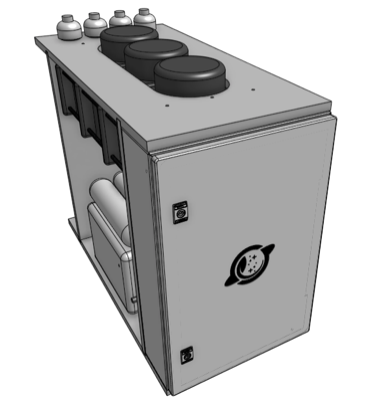
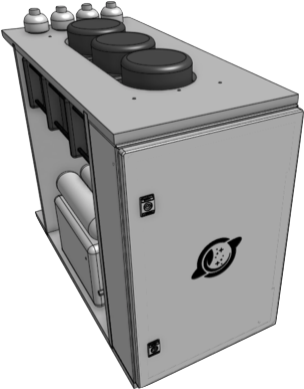
Large Update
- Made all Images Transparent
- Added new logo to Sign In
- Added new logo to Create Account
- Added new logo to Info Page
- Updated information to be more publicly understandable

diff --git a/pages/info.html b/pages/info.html
@@ -21,22 +21,21 @@
 
         /* Style the header */
         header {
-            background-color: #636363;
+            background-color: #252424;
             overflow: hidden;
             position: fixed;
             top: 0px;
-            width: 100%;
-            color: white;
+            width: 98.75%;
             padding: 2px;
             font-size: 10px;
-            color: grey;
+            color: #2e2e2e;
             border-radius: 0px 0px 20px 20px;
         }
 
             /* Create three equal columns that floats next to each other */
             header .column {
-                float: left;
-                width: 33%;
+                float: inline-start;
+                width: 33.3%;
             }
 
             /* Clear floats after the columns */
@@ -92,14 +91,14 @@
             cursor: pointer;
             text-decoration: none;
             color: #919191;
-            border: 2px solid #919191;
             padding: 6px 13px;
             border-radius: 50px 50px 30px 30px;
         }
 
-            /*Hover on Cancel button dims a little*/
+            /*Hover on button dims a little*/
             .headerButton .change:hover {
                 opacity: 0.5;
+
             }
 
 
@@ -115,6 +114,7 @@
             .footerButton .footbtn:hover {
                 opacity: 0.5;
             }
+
 
         img {
             max-width: 100%;
@@ -153,8 +153,8 @@
             border-radius: 30px 30px 50px 50px;
         }
 
+
         img {
-            border: 5px solid #999;
             border-radius: 30px;
         }
 
@@ -200,6 +200,7 @@
 
             .dayContainer > div {
                 background-color: rgba(255, 255, 255, 0.8);
+                color: black;
             }
 
     </style>
@@ -214,18 +215,19 @@
                 <div class="headerButton">
                     <h2>
                         <a href="https://kurtrek.com" class="btn" style="margin-left: 1.5%;">Return to Sign In</a>
+                        <span class="change">Day</span>
                     </h2>
                 </div>
             </div>
             <div class="column">
-                <h2 style="color: #919191;"><center>KURTREK.COM</center></h2>
+                <center>
+                    <a href="https://kurtrek.com">
+                        <img src="info-images/plantImage.png" alt="Logo Did Not Show">
+                    </a>
+                </center>
             </div>
             <div class="column">
-                <div class="headerButton">
-                    <h2>
-                        <span class="change">Day Mode</span> <!-- Changing to default be "Day Mode", from night mode -->
-                    </h2>
-                </div>
+
             </div>
         </div>
     </header>
@@ -237,30 +239,36 @@
         <nav>
             </br>
             <h1>Our Mission</h1>
-            <p>Decentralising technology to live with society and nature, off-grid, with a small physical and carbon footprint.</p>
-            <p>In order to achieve this, we will provide free and open source wiring diagrams, mechanical assembly diagrams, bill of materials, and instructions on assembly. All parts shall be at reasonable costs, and designs shall be reliable and repairable to the furthest extent possible.</p>
+            <p>Decentralized off-grid technology for sustainable living, in harmony with society and the environment.</p>
+            <p>Provide free open-source wiring diagrams, assembly instructions, and cost-effective, reliable and repairable designs to achieve sustainable living.</p>
             </br>
-            <img src="info-images/angularShot.png" alt="Cultivator Picture Did Not Show">
+            <center><img src="info-images/angularShot.png" alt="Cultivator Picture Did Not Show"></center>
             <p><center><i>fig. 1, Isometric View, Cultivator</i></center></p>
-            <img src="info-images/sideShot.png" alt="Cultivator Picture Did Not Show">
+            </br>
+            <center><img src="info-images/sideShot.png" alt="Cultivator Picture Did Not Show"></center>
             <p><center><i>fig. 2, Side View, Cultivator</i></center></p>
 
         </nav>
 
         <article>
             </br>
-            <h1>We Aim to Push DIY into Mainstream</h1>
-            <p>We understand that time is a commodity, so we'll get right to it:</p>
-            <p><i><a href="https://kurtrek.com" style="text-decoration: none; color: #878787;">Kurtrek.com</a></i> is the current home for one purpose: Quick, safe, and private access to your self-reliant systems.</p>
-            <p>Imagine for a moment you have a large water tank at home that collects rain water. You could get real time information on the tank regarding practically anything you wanted. If preferred, you could access the data from anywhere on the planet. The best part, is that you could do this today with zero previous experience.</p>
+            </br>
+            <h1 style="font-size: 35px;">Promoting Self-Sufficiency at the Individual Level</h1>
+            <h1>We value time, so let's get started.</h1>
+            <p>The attainment of self-sufficiency at the individual level represents a significant step towards the cultivation of autonomy and self-reliance, fostering personal growth and empowerment.</p>
+            <p>Through the use of self-sufficent systems, we promote environmental consciousness at the person to person level, which is a crucial step towards building a sustainable society.</p>
+
+            <br />
+            <hr style="height:2px;border-width:0px;color:gray;background-color:gray">
+            <br />
+
+            <p><b><a href="https://kurtrek.com" style="text-decoration: none; color: white;">Kurtrek.com</a></b> is your go-to destination for swift, secure, and confidential access to your autonomous systems.</p>
             <p>In fact this technology has existed for quite some time, so it's not like we're inventing anything new. We just wrap the technology in a fast, safer, visually practical package.</p>
             <p>Simply have your login information at the ready, and sign in from any computer with an internet connection. You will then see an overview of your DIY system, your other equipment, or possibly an item designed and built by us. Usually each item will have relevant stats, messages, information, and updates at a high level.</p>
             <p>At the lower level, real-time updates from these systems, with customized interfaces to your choosing.</p>
             <p>There are many reasons for this.</p>
             <div class="grid-containerList">
 
-
-
                 <li>List Item 1</li>
                 <li>List Item 2</li>
                 <li>List Item 3</li>
@@ -269,10 +277,6 @@
                 <li>List Item 3</li>
                 <li>List Item 3</li>
                 <li>List Item 1</li>
-
-
-
-
 
             </div>
 
@@ -282,6 +286,8 @@
             <p>It's a hard pill to swallow. So here it is... In terms of living within the bounds of what the planet requires, and to live comfortablly while also feeling like it's the 21st century, the solution is:</p>
             <p><i>Society needs to gravitate toward living in a "Cybertruck style" tiny home, towable, transportable, and capable of producing and managing it's own fresh water, food, electricity, hygiene for occupents, and to have everything be reliable, repairable by onboard occupents, and safe for at least an onboard family or group of at least five adult people.</i></p>
             <p>It's an extremely difficult engineering task to accomplish. That's where this website comes in. </p>
+            <p>Imagine for a moment you have a large water tank at home that collects rain water. You could get real time information on the tank regarding practically anything you wanted. If preferred, you could access the data from anywhere on the planet. The best part, is that you could do this today with zero previous experience.</p>
+
 
             <p>"Off-grid", "decentralization", these are the terms of a nerdy, self-proficent folk who want to live in the middle of nowhere, right? Well these are the claims of a society that has always known centralized systems, interdependant on eachother. We have the technology today, for implementing self proficent systems to allow anyone to live practically anywhere in the world, and yet still feel incredibly connected to the rest of society.</p>
             <p>So why isn't this idea more mainstream? The answer is simple, we have old systems that still exist because corporations stand to benefit from keeping the system in place. It's akin to the disruption that Tesla caused on the automotive and energy industries. Building out technology to improve self-reliance is a movement that creates a lot of powerful enemies. Tesla I believe, is not the example, but rather the exception to this rule.</p>
@@ -320,6 +326,11 @@
             <h4>The Cultivator</h4>
             <p>That's where the cultivator comes in. By allowing the production of food in a small, energy efficient space, food security starts to become a solvable issue.</p>
             <p>Now what does a cultivator do? I thought they were those weird shovel things that plowed the ground and were pulled by oxen.</p>
+
+            <h1>Our Story</h1>
+            <p>Our company was named after our founder, Kurt Foster. The name Kurtrek combines personal and professional aspects of the company. It reflects the company's values of authenticity, ownership, and commitment to its customers, as it is named after the person who started it and continues to lead it. Additionally, it's memorable and easy to pronounce, making it easy for customers to remember and recommend to others.</p>
+            <p>The reason for including "rek" in the name "Kurtrek" is integral, as it pertains to "<b style="color:white">rek</b>onstruktion" or "<b style="color:white">rec</b>onstruction", indicating that the company is focused on improving and rebuilding the existing architecture of living comfortably, stronger, and more efficient.</p>
+
         </article>
     </section>
 
@@ -338,7 +349,7 @@
             }
             if ($("nav").hasClass("dayNav")) {
                 $("nav").removeClass("dayNav");
-                $(".change").text("Day Mode");
+                $(".change").text("Day");
             }
             if ($(".grid-container").hasClass("dayContainer")) {
                 $(".grid-container").removeClass("dayContainer");
@@ -347,7 +358,7 @@
                 $("article").addClass("day");
                 $("nav").addClass("dayNav");
                 $(".grid-container").addClass("dayContainer");
-                $(".change").text("Night Mode");
+                $(".change").text("Night");
             }
         });
     </script>

diff --git a/index.html b/index.html
@@ -6,7 +6,7 @@
         @import url('https://fonts.googleapis.com/css2?family=Poppins:wght@300;400;500;600&display=swap');
 
         body {
-            margin: 145px 0px;
+            margin: 100px 0px;
             padding: 0;
             top: 10%;
             background: linear-gradient(to right bottom, #757678, #616263, #4b4c4d, #323233, #232324, #141414, #232324, #323233, #4b4c4d, #616263, #757678);
@@ -86,7 +86,7 @@
 </head>
 <body>
     <div class="container">
-        <center><a href="https://kurtrek.com"><img src="https://kurtrek.com/pages-images/new-logo-page-1.png" alt="logo image" class="logo"></a></center>
+        <center><a href="https://kurtrek.com"><img src="pages-images/new-logo-page-1.png" alt="logo image" class="logo"></a></center>
         <center><h3 style="margin: 7px; font-size: 35px; font-weight: 400; color: #fff; text-indent: 0px;">Sign In</h3></center>
         <center><h4 style="margin: 1px; font-size: 14px; font-weight: 250; color: #E6E6E6; text-indent: 0px; ">To access your live dashboard or <a href="pages/createAccount.html"><b>Create an Account</b></a></h4></center>
         <center>

diff --git a/pages/createAccount.html b/pages/createAccount.html
@@ -31,7 +31,7 @@
         @import url('https://fonts.googleapis.com/css2?family=Poppins:wght@300;400;500;600&display=swap');
 
         body {
-            margin: 145px 0px;
+            margin: 100px 0px;
             padding: 0;
             top: 10%;
             background: linear-gradient(to right bottom, #757678, #616263, #4b4c4d, #323233, #232324, #141414, #232324, #323233, #4b4c4d, #616263, #757678);
